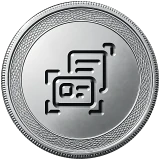
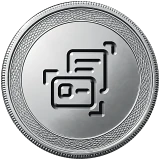
Proof medals: sixteen struck in the trophies' metal, for the build card
Crew, payroll, help desk, access, network, built not bought, on the
line, handshake, filed, deal jacket, in order, collections, data model,
shipped and every form in silver, and the neuron in bronze. The 18
trophies are byte-identical; every raster carries its provenance.

Claude-Session: https://claude.ai/code/session_01GsNtH19KQdAJX3t4pDkeQJ

Changed region(s): [[0.25, 0.4062, 0.6562, 0.75], [0.4062, 0.25, 0.75, 0.5938]]

diff --git a/tools/art/medal_glyphs.py b/tools/art/medal_glyphs.py
@@ -819,9 +819,10 @@ def g_every_form():
     card = rrect(7.5, 24.5, 30.5, 40.5, 2.5)
     forms = behind(behind(back, front) + [front] + rows, card)
     photo = rrect(11.5, 28.5, 17.5, 34.5, 1.5)
-    lines = [poly((21.5, 30), (26.5, 30)), poly((21.5, 34.5), (23, 34.5))]
-    corners = [poly((3, 26.5), (3, 20.5), (9, 20.5)), poly((3, 38.5), (3, 44.5), (9, 44.5)), poly((35, 38.5), (35, 44.5), (29, 44.5))]
-    return [xf(q, Xf(s=0.88)) for q in forms + [card, photo] + lines + corners]
+    line = poly((21.5, 31.5), (26.5, 31.5))
+    # two of the scanner's corners, across the diagonal: four read as a frame round nothing at 40 pixels
+    corners = [poly((3, 26.5), (3, 20.5), (9, 20.5)), poly((35, 38.5), (35, 44.5), (29, 44.5))]
+    return [xf(q, Xf(s=0.92)) for q in forms + [card, photo, line] + corners]
 
 def g_neuron():
     """A neuron: the cell body, its forked dendrites, the axon and its terminals."""
@@ -889,7 +890,7 @@ OFFSETS = {
     # the proof medals
     "crew": (0.4, -0.8), "help-desk": (0.5, -1.2), "network": (0, -2.4), "built-not-bought": (-1.0, 2.4),
     "on-the-line": (-0.5, 0.6), "handshake": (0, -1.0), "filed": (1.5, 0), "deal-jacket": (-0.4, -1.4),
-    "in-order": (0, -0.7), "shipped": (0, -2.0), "every-form": (1.6, -0.9), "neuron": (1.0, 0.6), "data-model": (0.6, 0),
+    "in-order": (0, -0.7), "shipped": (0, -2.0), "every-form": (1.4, -0.9), "neuron": (1.0, 0.6), "data-model": (0.6, 0),
 }
 
 

diff --git a/tools/art/README.md b/tools/art/README.md
@@ -31,3 +31,23 @@ python3 tools/art/grade.py <plate.png> <id> [focus_x] --prompt "<the exact gener
 Bone text has to hold 4.5:1 over the brightest pixel in the zone x 0 to 0.42, y 0.38 to 0.92. Bone's relative luminance is 0.8027, so the zone's max relative luminance must stay at or under 0.1395. The script measures the decoded 1920 WebP, 1920 AVIF and 1280 WebP (grain and compression included), aims for 4.6:1 before encoding, and prints a JSON report with each file's max, p99 and mean luminance and bone's contrast on the max, plus the mobile bottom band (y 0.62 to 0.96 of the portrait crop) for information.
 
 Tested on a synthetic 2560x1440 night plate (a sodium light pool, a wet-floor streak, material swatches, a grey ramp, and a stray lamp left in the text zone on purpose): the limiter caught the lamp and the zone measured 0.134 max luminance, 4.63:1 on the 1920 WebP (4.70:1 on the 1280, 4.76:1 on the AVIF), with the recompose warning. The same plate without the lamp measured 0.0115, 13.9:1, shade at its base strength and the limiter untouched. 1920 WebP about 195KB at quality 90, AVIF about 137KB. Test outputs were deleted.
+
+# Medals: trophies and proof medals
+
+`medal_glyphs.py` authors every glyph as geometry on a 48 unit grid (stroke 3, round caps and joins, no fills, under lines cut back where another line crosses over them) and writes the SVGs to `assets/game/medals/glyphs`. `medals.py` reads those SVGs back, cuts each one as a recessed V groove into the one nickel-silver base (`candidates/medal-base.png`), strikes it in its tier's metal and writes `<slug>-160.webp` and `<slug>-80.webp` to `assets/game/medals`, each with a provenance `.json` sidecar through `embed-prompt.mjs`. The 80 pixel file is cut 12 percent wider for its smaller optical size.
+
+There are two sets. The 18 trophies (`TROPHIES` in medals.py) belong to the library. The 16 proof medals (`PROOFS`, silver except `neuron` in bronze) belong to the visitor's build card: crew, payroll, help-desk, access, network, built-not-bought, on-the-line, handshake, filed, deal-jacket, in-order, collections, data-model, shipped, every-form, neuron.
+
+```
+python3 tools/art/medal_glyphs.py --proofs          # rewrite the proof glyph SVGs
+python3 tools/art/medal_glyphs.py crew,payroll      # rewrite named glyphs; no argument rewrites all 34
+python3 tools/art/medals.py --proofs                # strike the 16 proof medals only
+python3 tools/art/medals.py --only crew,payroll     # strike named medals only (commas or spaces)
+python3 tools/art/medals.py --trophies              # strike the 18 trophies only
+python3 tools/art/medals.py                         # everything: all 34, the blanks, the sheen, both sheets
+```
+
+- A partial run (`--proofs`, `--trophies` or `--only`) writes only the medals it names and their sidecars, so the rest stay byte-identical. The blanks, `sheen.webp` and `candidates/medals-contact.png` come only from a full run. An unknown slug stops the run before anything is written.
+- Any run that strikes a proof medal also writes `candidates/medals-contact-proofs.png`: all 34 as they stand on disk, at 80 and 40 pixels on ink. Read it before shipping: each glyph has to read at 40 pixels, sit centred, match the family's weight and stay distinct from its neighbours.
+- `OFFSETS` in medal_glyphs.py nudges a glyph's mass onto the medal's centre; a glyph that runs large is scaled inside its own function. medals.py warns when a stroke reaches the bevel.
+- `--no-provenance` is for test runs you delete; `--embed-script` or `EMBED_PROMPT` points at `embed-prompt.mjs` when it is not under `~/.claude/skills`. Check with `node <embed-prompt.mjs> --scan assets/game/medals` (0 missing).
